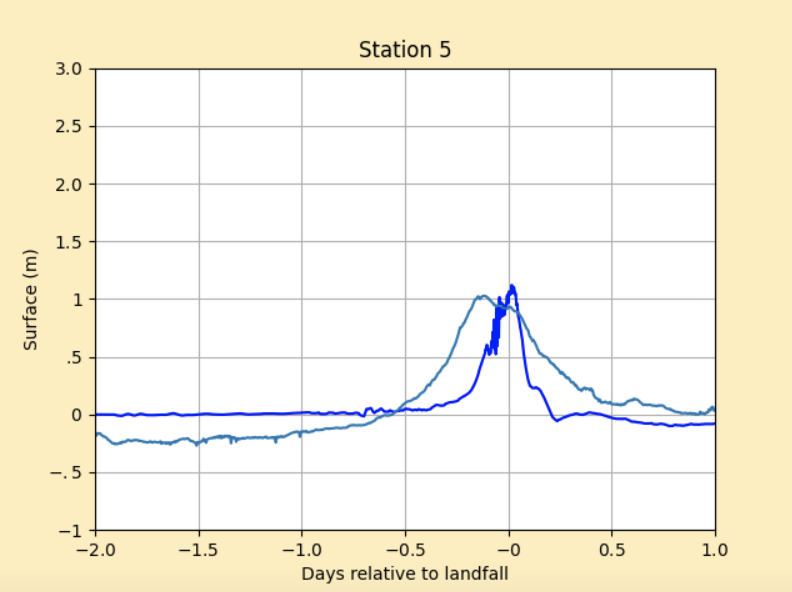
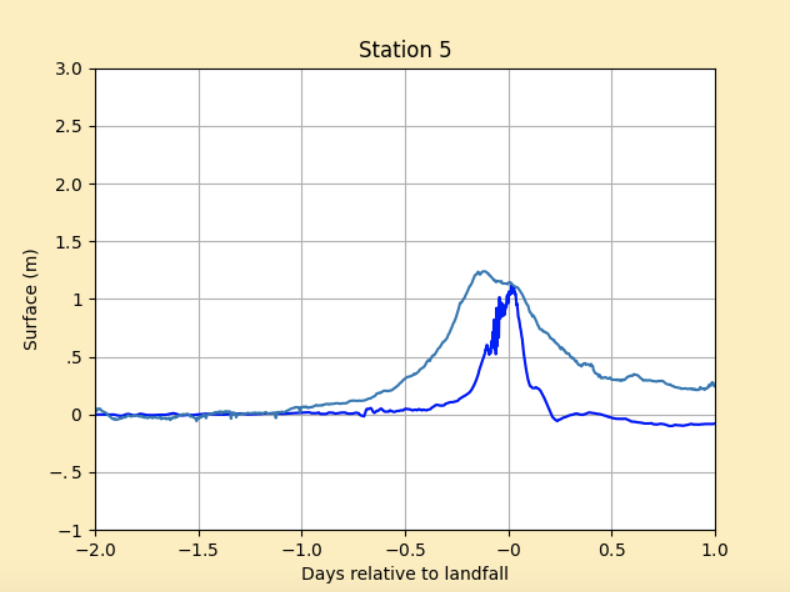
update ida detided data mean before surge subtracted

diff --git a/ida/setplot.py b/ida/setplot.py
@@ -170,7 +170,10 @@ def setplot(plotdata=None):
     import datetime
     my_dict = {1: '8760922', 2: '8761724', 3: '8764314', 4: '8747437', 5: '8760721'}
     # Mean water level in meters obtained from NOAA Tides & Currents 
-    mean = [0.347472, 0.316992, 0.405384, 0.460248, 0.356616]
+    # mean = [0.347472, 0.316992, 0.405384, 0.460248, 0.356616]
+
+    # Percentage of detided data before surge
+    before = [1/2, 1/2, 3/5, 1/2, 1/3]
     def gauge_afteraxes(cd): 
         t0 = datetime.datetime(2021, 8, 27, 17)
         t_offset = datetime.datetime(2021, 8, 29, 17)
@@ -183,7 +186,15 @@ def setplot(plotdata=None):
         t = numpy.empty(date_time.shape[0])
         for j, dt in enumerate(date_time):
             t[j] = (dt - t_offset).total_seconds() / 86400
-        axes.plot(t, water_level - prediction - mean[cd.gaugeno-1])
+
+        ## Plot detided data with mean of each gauge before surge window subtracted
+        raw = water_level - prediction
+        # print(raw.shape)
+        # numpy array shape: (721, )
+        # excluding initial value, 720 data in total
+        index = int((raw.shape[0]-1)*before[cd.gaugeno-1]+2)
+        mean = numpy.mean(raw[:index])
+        axes.plot(t, water_level - prediction - mean)
        
         # Fix up plot - in particular fix time labels
         axes.set_title('Station %s' % cd.gaugeno)
@@ -241,7 +252,7 @@ def setplot(plotdata=None):
     plotdata.latex_makepdf = False           # also run pdflatex?
     plotdata.parallel = True                 # parallel plotting
 
-    return plotdata
+    return plotdata 
 
 
 

diff --git a/ida/setrun.py b/ida/setrun.py
@@ -528,4 +528,4 @@ if __name__ == '__main__':
     else:
         rundata = setrun()
 
-    rundata.write() 
+    rundata.write()

diff --git a/ida/readme.md b/ida/readme.md
@@ -39,7 +39,7 @@ Generally speaking, Ida produced widespread rainfall along its path. Ida produce
 (https://www.nhc.noaa.gov/data/tcr/AL092021_Ida.pdf)
 
 ## General Code Execution Guide
-If running this example, download setrun.py, setplot.py, and Makefile to the appropriate directory. Execute `$ make all` or `$ make .plots` to compile the code, run the simulation, and plot the results. If problems will be encountered, please refer to <a href="http://www.clawpack.org/quick_surge.html" target="_blank">Storm Surge Guide</a> for possible solutions. (Approximate runtime for this example on Monterey quad-Core intel core: 1 hour 10 min)
+If running this example, download setrun.py, setplot.py, and Makefile to the appropriate directory. Execute `$ make all` or `$ make .plots` to compile the code, run the simulation, and plot the results. If problems will be encountered, please refer to <a href="http://www.clawpack.org/quick_surge.html" target="_blank">Storm Surge Guide</a> for possible solutions. 
 
 ## Topography & Bathymetry Data
 Topography data can be obtained from:
@@ -82,12 +82,12 @@ To compare simulation surge data by GeoClaw, we introduced the observed surge da
 
 ## Validation Result
 ### Station 1-Pilots Station East, LA
-Pilots Station East, LA `ID: 8760922` experienced a storm surge of approximately 1.00 meter. GeoClaw predicted approximately 0.45 meters. 
+Pilots Station East, LA `ID: 8760922` experienced a storm surge of approximately 0.90 meter. GeoClaw predicted approximately 0.45 meters. 
 
 ![Station1](./images/station1.png)
 
 ### Station 2-Grand Isle, LA
-Grand Isle, LA `ID: 8761724` experienced a storm surge of approximately 1.40 meter. GeoClaw predicted approximately 2.80 meters. 
+Grand Isle, LA `ID: 8761724` experienced a storm surge of approximately 1.50 meter. GeoClaw predicted approximately 2.80 meters. 
 
 ![Station2](./images/station2.png)
 
@@ -97,12 +97,12 @@ Eugene Island, LA `ID: 8764314` experienced a storm surge of approximately -0.75
 ![Station3](./images/station3.png)
 
 ### Station 4-Bay Waveland Yacht Club, LA
-Bay Waveland Yacht Club, LA `ID: 8747437` experienced a storm surge of approximately 1.75 meter. GeoClaw predicted approximately 0.75 meters. 
+Bay Waveland Yacht Club, LA `ID: 8747437` experienced a storm surge of approximately 1.80 meter. GeoClaw predicted approximately 0.75 meters. 
 
 ![Station4](./images/station4.png)
 
 ### Station 5-Port Fourchon, LA
-Port Fourchon, LA `ID: 8762075` experienced a storm surge of approximately 1.00 meter. GeoClaw predicted approximately 1.10 meters. 
+Port Fourchon, LA `ID: 8762075` experienced a storm surge of approximately 1.25 meter. GeoClaw predicted approximately 1.10 meters. 
 
 ![Station5](./images/station5.png)
 
@@ -113,7 +113,7 @@ Among all gauge locations, station 1, 2, 4, and 5 are to the right of the hurric
 Generally speaking, observed data and simulation data share large amount of similarty in timing and pattern of surges. Two major reasons for the differences between the two data or abnormality are highly likely rainfall & freshwater flooding caused by the hurricane which was not taken into account by GeoClaw, and low/bad refinement of topography. Note that for this specific example, Mississippi River Delta region has lots of tiny islands and narrow waterways, making it very hard to refine. For future executions of this example, user may need to fully consider the pros (possibility of better refined regions) and cons (low efficiency in terms of run time) when adding more refinement levels.
 
 
-Author: Jinpai (Max) Zhao
+Author: Jinpai (Max) Zhao 
 ```
 jz3445@columbia.edu
 ```
